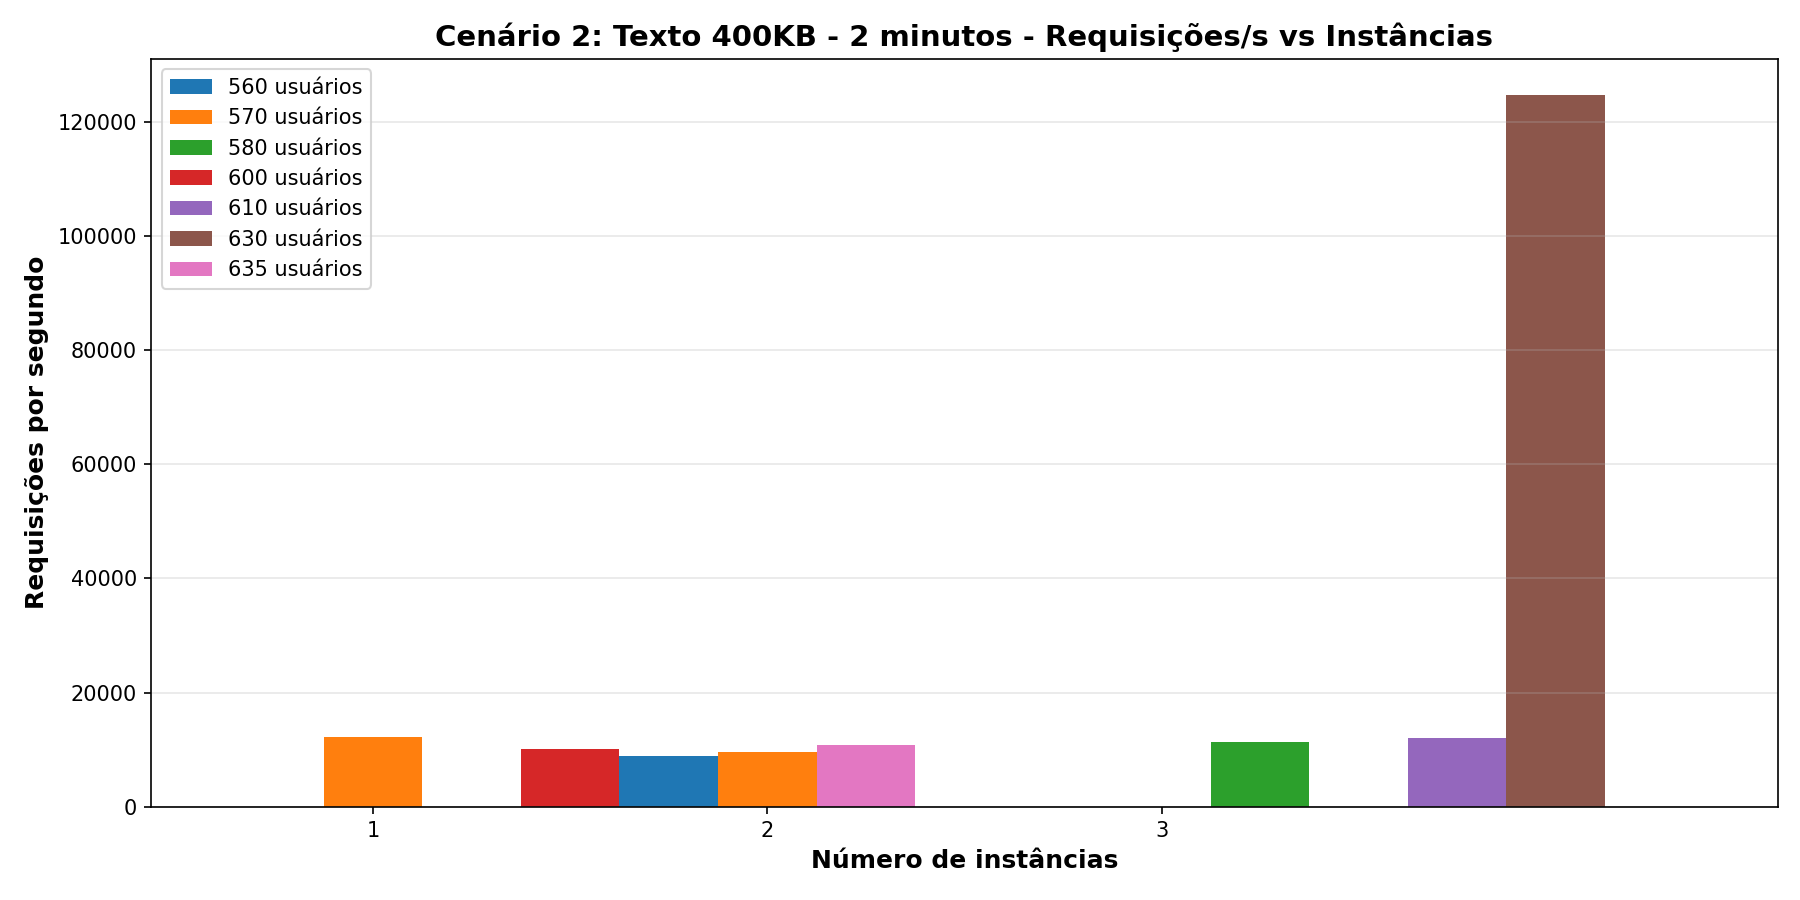
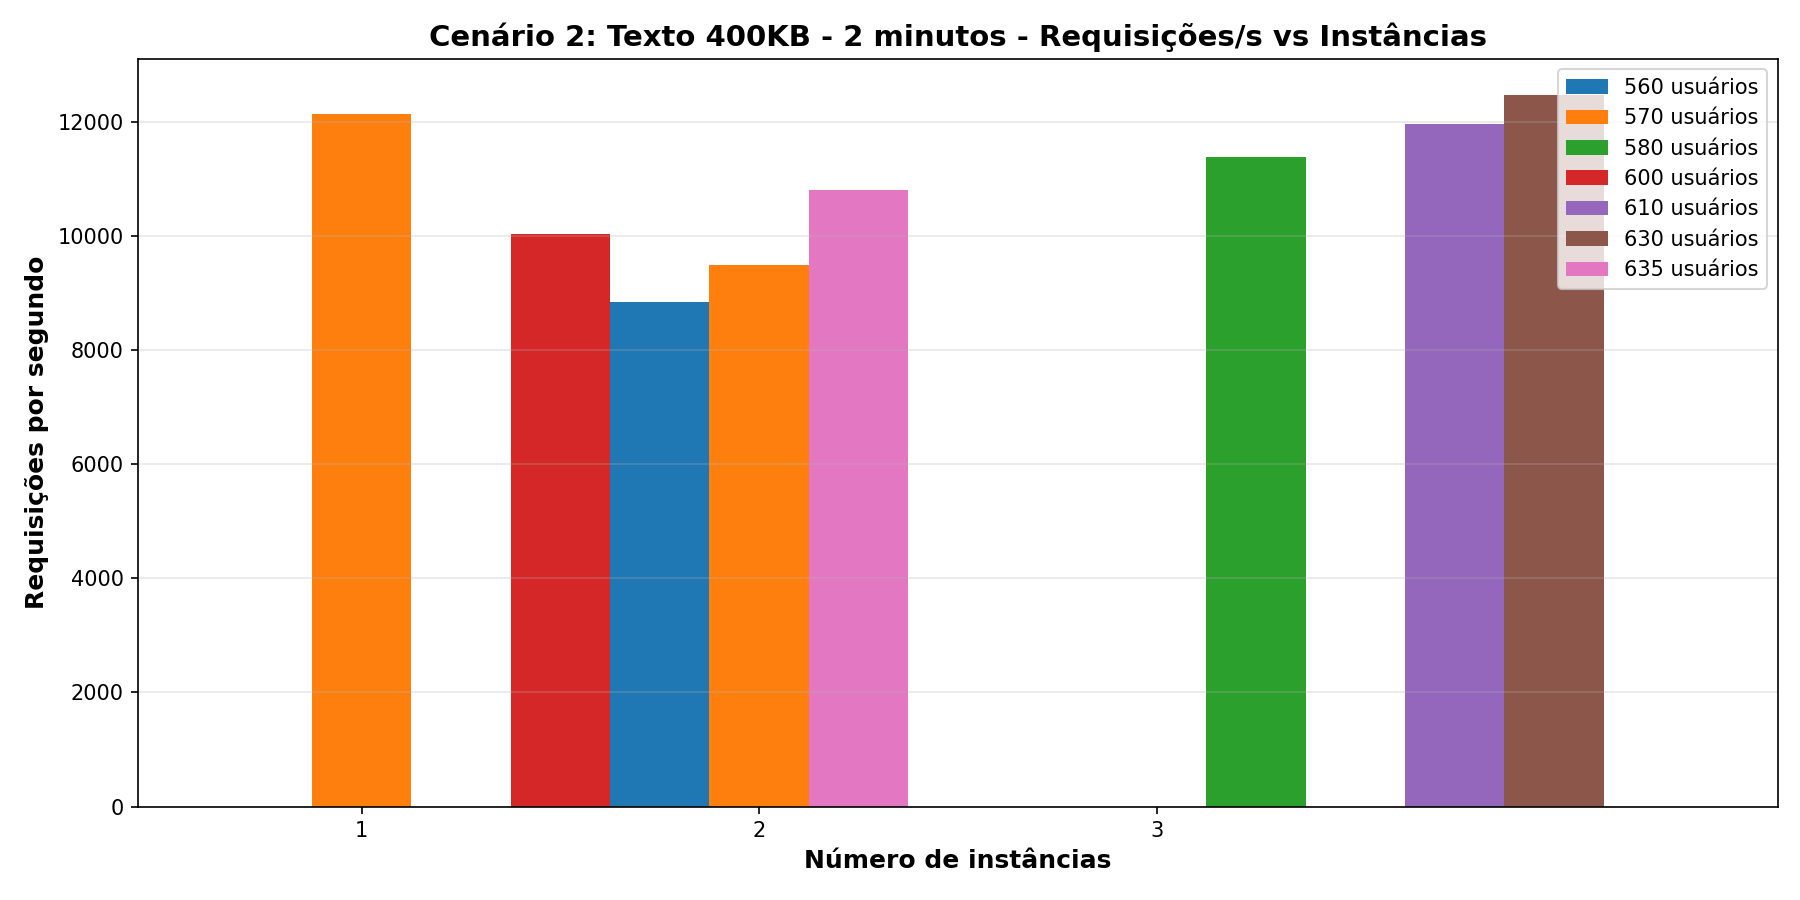
bugfix

diff --git a/Trabalho_docker_3/analyze_scenarios.py b/Trabalho_docker_3/analyze_scenarios.py
@@ -41,7 +41,7 @@ cenario2 = {
         {'inst': 2, 'rampup': 15, 'usuarios': 580,  'req_s': 10412, 'mediana': 2400, 'p95': 9300,  'falhas': 488, 'taxa_falha': 0.05},
         {'inst': 3, 'rampup': 15, 'usuarios': 580,  'req_s': 11392, 'mediana': 3000, 'p95': 5600,  'falhas': 60,  'taxa_falha': 0.01},
         {'inst': 3, 'rampup': 25, 'usuarios': 610,  'req_s': 11966, 'mediana': 2900, 'p95': 8100,  'falhas': 552, 'taxa_falha': 0.05},
-        {'inst': 3, 'rampup': 30, 'usuarios': 630,  'req_s': 124840, 'mediana': 2500, 'p95': 8500, 'falhas': 795, 'taxa_falha': 0.06},
+        {'inst': 3, 'rampup': 30, 'usuarios': 630,  'req_s': 12480, 'mediana': 2500, 'p95': 8500, 'falhas': 795, 'taxa_falha': 0.06},
     ]
 }
 

diff --git a/Trabalho_docker_3/README.md b/Trabalho_docker_3/README.md
@@ -45,7 +45,7 @@ Performance crítica com 1 instância (59s mediano inaceitável). Arquivo de 1MB
 | 2          | 15      | 580      | 10412 | 2400         | 9300     | 5%        |
 | 3          | 15      | 580      | 11392 | 3000         | 5600     | 1%        |
 | 3          | 25      | 610      | 11966 | 2900         | 8100     | 5%        |
-| 3          | 30      | 630      | 124840| 2500         | 8500     | 6%        |
+| 3          | 30      | 630      | 12480| 2500         | 8500     | 6%        |
 
 Performance aceitável. Tempo mediano 2.4-3.0s com 3 instâncias. Taxa de falha controlada (0-6%). Anomalia detectada: Inst.3 com 630 usuários mostra 124.840 req/s (verificar coleta).
 